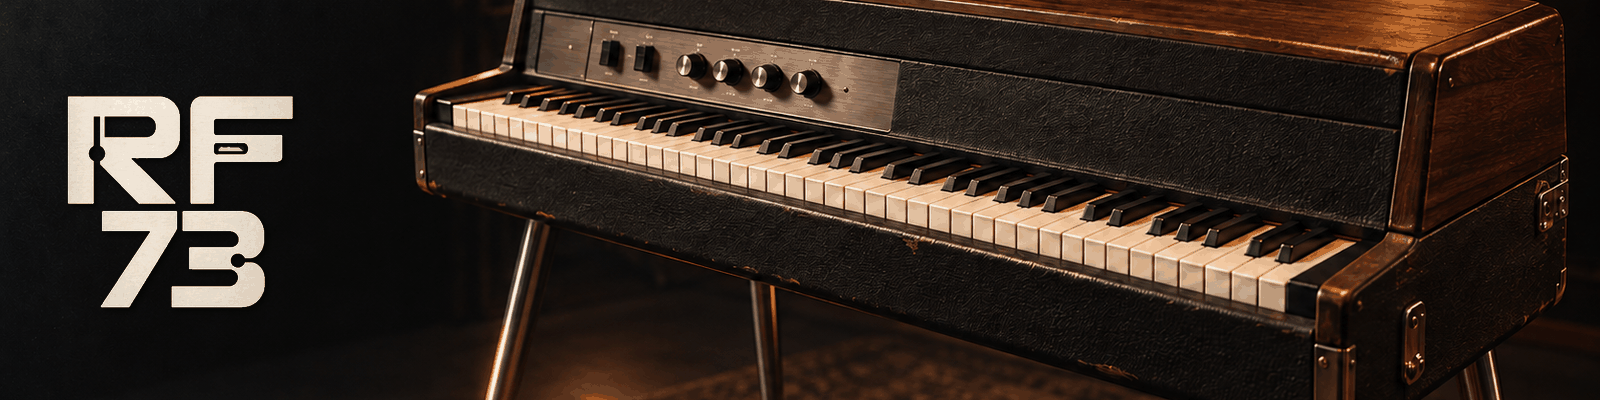
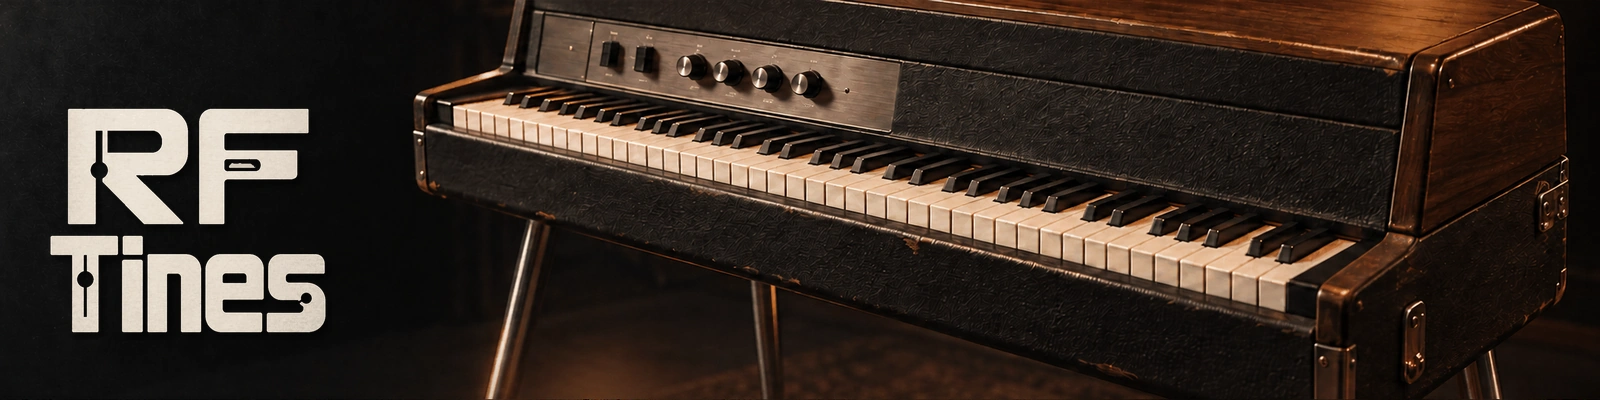
branding: replace the artwork with the RF-Tines wordmark
Regenerate the icon, banner and splash from the new WebP sources. The
previous artwork still carried the RF 73 wordmark, which the rename left
as the one visible remnant of the old name.

The host validator accepts only 8-bit PNG at exact dimensions, RGB or
RGBA and never a palette, so palette quantization is unavailable and the
sources are kept lossless. The icon is resampled 1254x1254 -> 512x512 with
Lanczos; the banner and splash already matched their required sizes. All
three are recompressed with zopflipng across every filter strategy, which
saves a further 3-6% over Pillow's best output.

  icon    512x512     251,301 bytes   12% of its 2 MiB limit
  banner  1600x400    723,392 bytes   17% of its 4 MiB limit
  splash  1920x1080 2,243,965 bytes   27% of its 8 MiB limit

rackforge-core inspect reports PLUGIN_PACKAGE_VALID for the package with
the new assets. Drop the wordmark caveat from the README, the changelog
and the rename notes.

diff --git a/README.md b/README.md
@@ -6,13 +6,13 @@ A Rust physical-model electric piano for RackForge.
 
 The first working prototype includes a nonlinear hammer-contact solver, a three-mode resonator per key, a geometry-dependent magnetic pickup, sustain and sample-accurate MIDI. It renders audio offline and compiles to a portable RackForge WASM plugin.
 
-Version 0.1.14 packages the playable instrument with catalog artwork, five
-era-inspired factory programs, responsive PLAY and CONFIG surfaces, local
-program saving, portable `.rftines` files and channel-aware MIDI pitch bend. It
-also carries the [rename to RF-Tines](docs/RENAMING.md), which changes the
-plugin identity and the portable program format without compatibility shims.
-The physical profile remains provisional while the reference fit continues, and
-the packaged artwork still shows the previous RF 73 wordmark.
+Version 0.1.14 packages the playable instrument with its RF-Tines catalog
+artwork, five era-inspired factory programs, responsive PLAY and CONFIG
+surfaces, local program saving, portable `.rftines` files and channel-aware
+MIDI pitch bend. It also carries the [rename to RF-Tines](docs/RENAMING.md),
+which changes the plugin identity and the portable program format without
+compatibility shims. The physical profile remains provisional while the
+reference fit continues.
 
 The offline [coupled assembly experiment](docs/COUPLED-ASSEMBLY.md) now models a tine, tonebar and compliant common support with reciprocal forces, nonlinear hammer contact and a complete energy ledger. Its parameters remain provisional; high-resolution validation precedes plugin integration.
 

diff --git a/docs/RENAMING.md b/docs/RENAMING.md
@@ -94,5 +94,12 @@ The full `cargo test --workspace` run was not completed here; the laboratory
 suite is long-running and is not a CI or release gate. The gates listed above
 are the ones CI and the release workflow enforce.
 
-The branding images under `package/branding/` still render the previous `RF 73`
-wordmark. They are binary assets and were not regenerated here.
+## Branding
+
+The icon, banner and splash under `package/branding/` carry the RF-Tines
+wordmark. They were regenerated from WebP sources and encoded as the manifest
+and the host validator require: PNG at exactly 512x512, 1600x400 and 1920x1080,
+8-bit, non-animated, and RGB rather than a palette, which the validator rejects.
+Palette quantization is therefore unavailable, so they are compressed losslessly
+with zopflipng over all filter strategies. They occupy 12%, 17% and 27% of the
+per-asset size limits.

diff --git a/CHANGELOG.md b/CHANGELOG.md
@@ -16,9 +16,8 @@ versioning while the public plugin contract is still below 1.0.
 - Changed the desktop audition override to `RF_TINES_DESKTOP` and the library
   ownership marker to `.rf-tines-owned`. An existing library marked
   `.rf-73-owned` or `.rf-rhodes-owned` is still adopted with its settings intact.
-- Added the catalog icon, banner and loading splash and moved the package to
-  RackForge manifest schema 3. The artwork still carries the previous RF 73
-  wordmark and has not been regenerated.
+- Added the RF-Tines catalog icon, banner and loading splash and moved the
+  package to RackForge manifest schema 3.
 - Added a responsive Stage/Suitcase front panel with five era-inspired factory
   programs and compact physical controls.
 - Added local program saving from PLAY and `.rftines` import/export from CONFIG.
